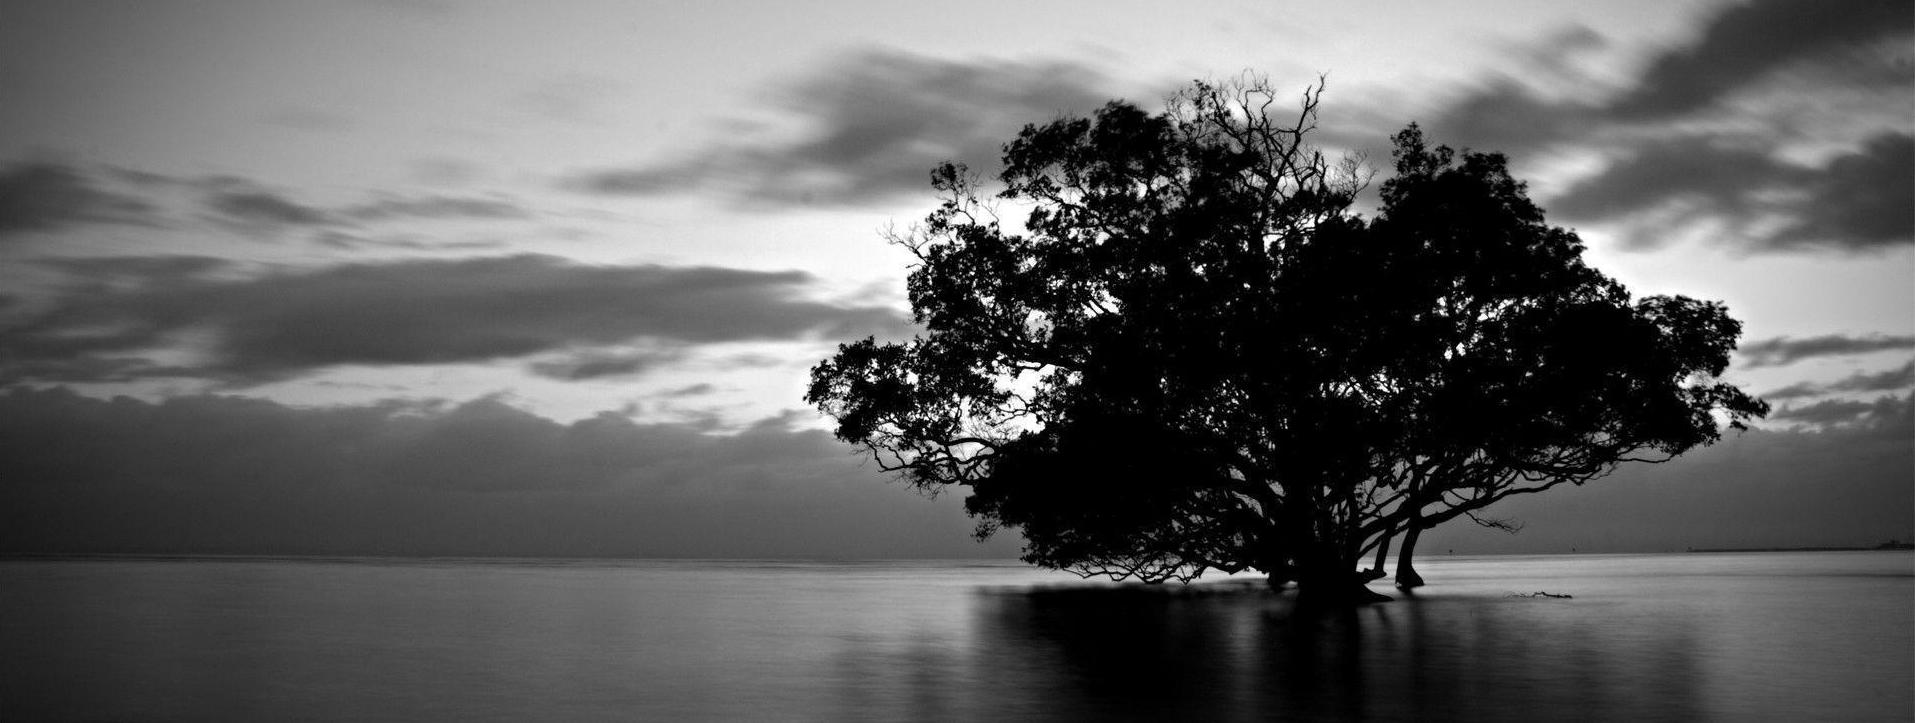
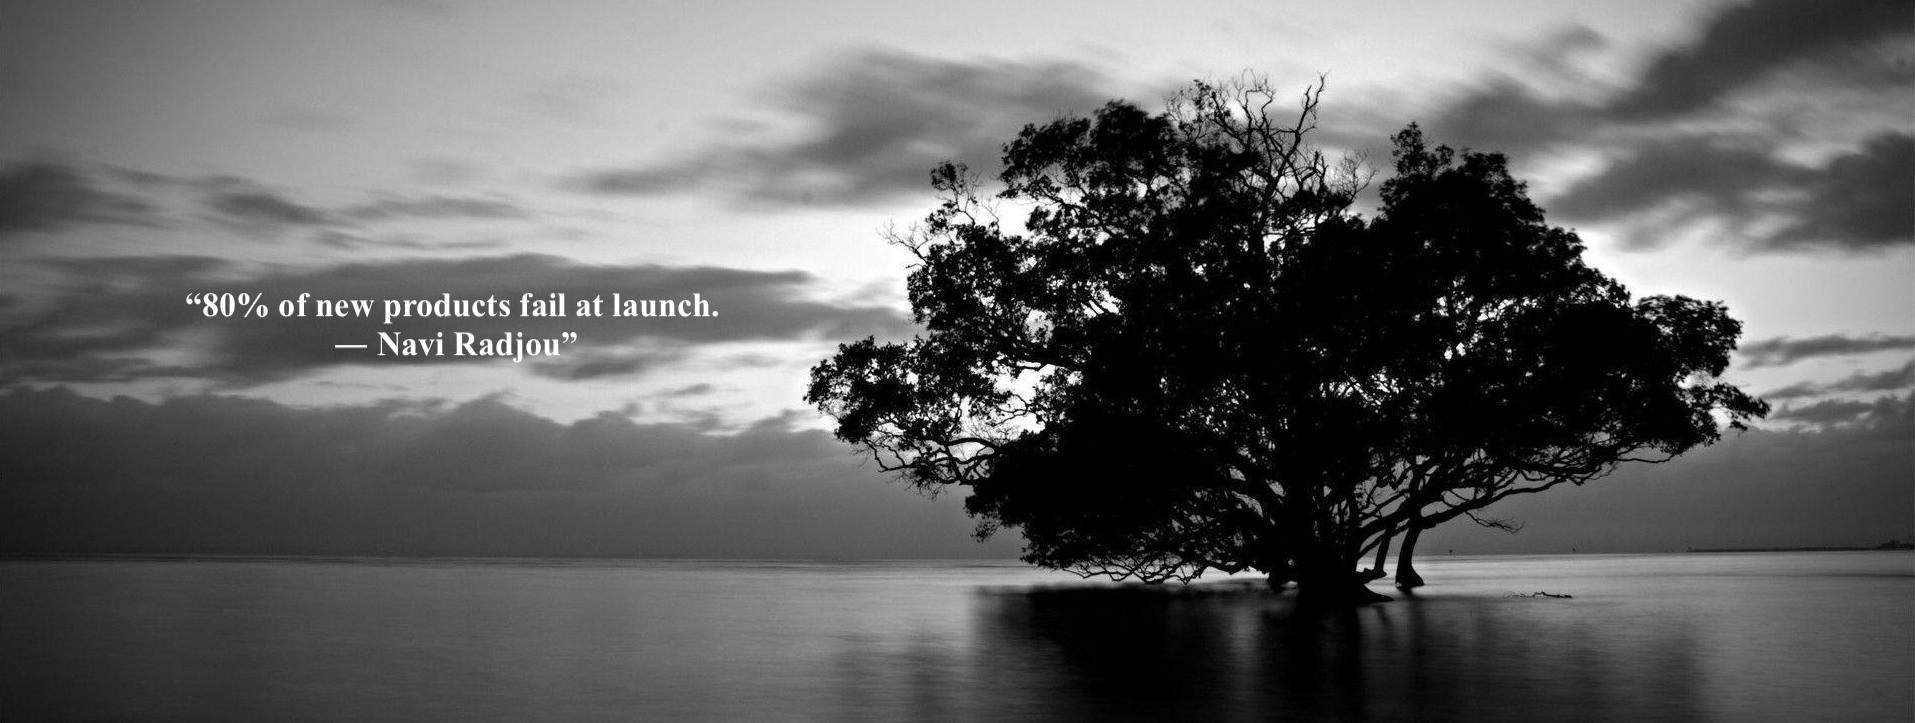
k
m

Changed region(s): [[0.0924, 0.3956, 0.3697, 0.5173]]

diff --git a/index.html b/index.html
@@ -1,4 +1,4 @@
-<!DOCTYPE html>
+4<!DOCTYPE html>
 <html lang="en">
 <head>
     <meta charset="UTF-8">
@@ -54,8 +54,7 @@
 
     <div>
         <div class="container3">
-            <div class ="divcenter"><strong>“80% of new products fail at launch.”</strong><br>
-                ― Navi Radjou</div>
+          
             <img class="img-back"src="Img/bnwnature.jpg" alt="black and white picture">
         </div>
     </div>

diff --git a/index_stylesheet.css b/index_stylesheet.css
@@ -88,17 +88,7 @@
     width: 100%;
     height: auto;
   }
-  .divcenter{
-    position: absolute;
-    text-align: left;
-    display: inline-block;
-    top: 50%;
-    left: 23%;
-    transform: translate(-50%, -30%);
-    
-    padding: 0px;
-    font-family: Times;
-  }
+  
   .img-back{
     width: 100%;
     height: auto;
